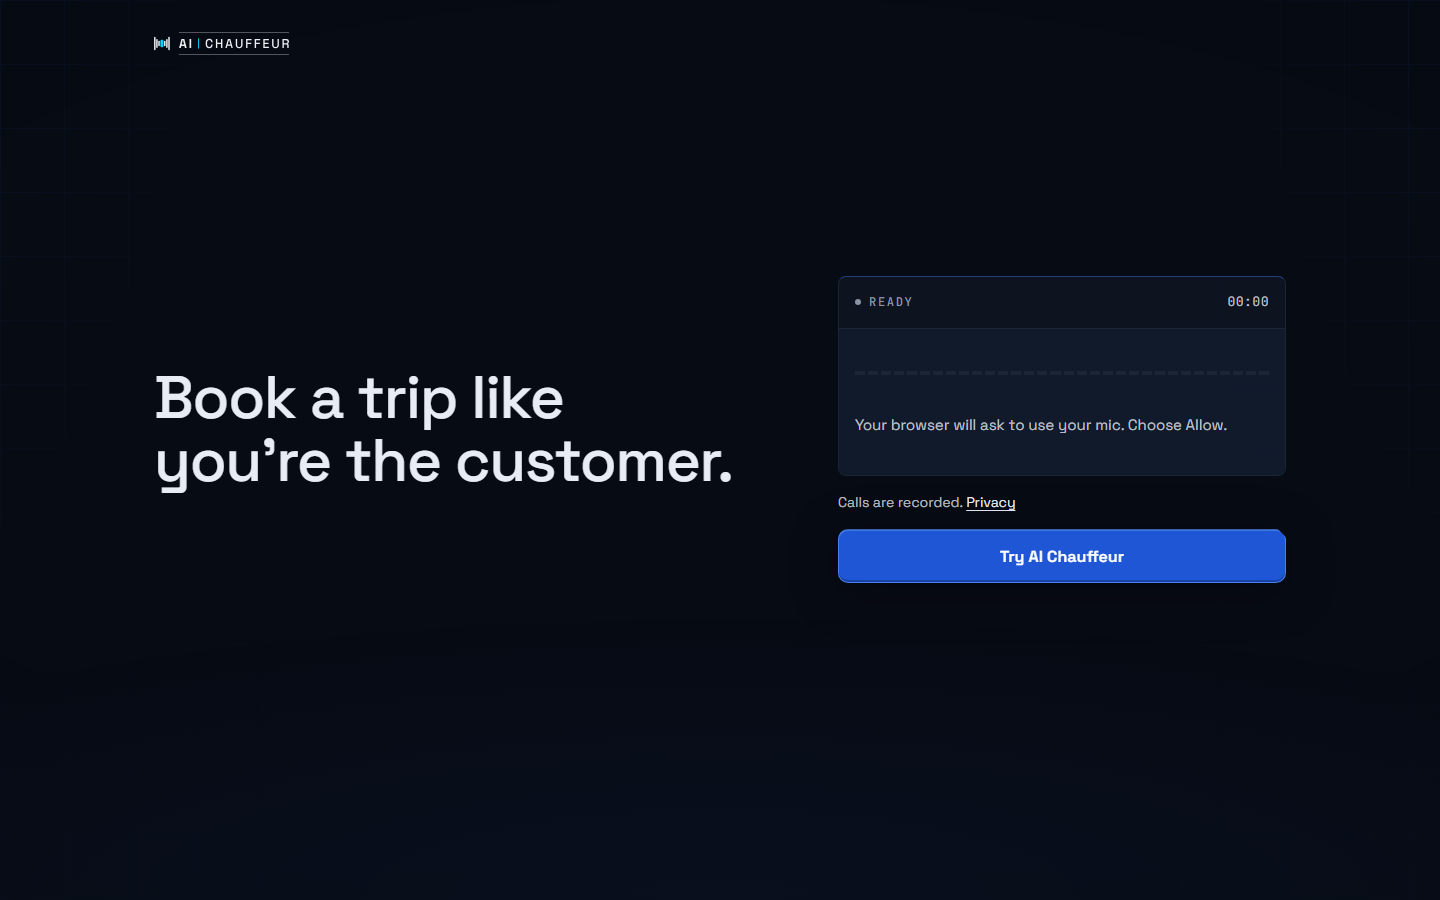
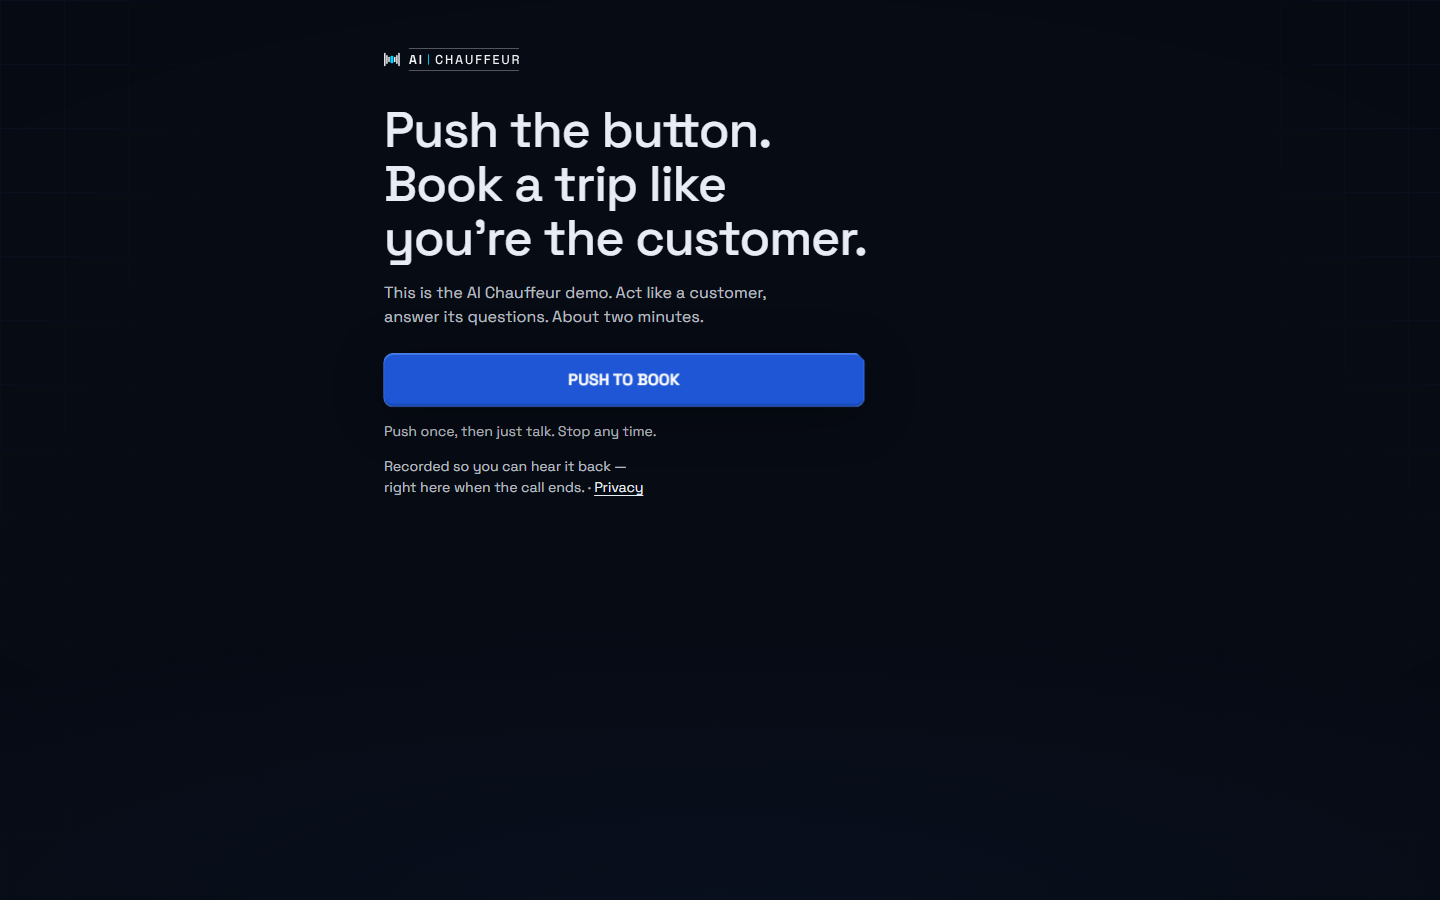
AIC /try v4.1 ledger: the board, the run report, the production screenshots
board.json: aic-try label flips to v4.1 with deploy + rollback ids, the L5 lane
carries the canon note (probe contrast IN the dimmed state, not the opacity
number), and the run log gains the v4.1 entry.
reports/2026-09-12-aic-try-v41.md is the readback mirror.
audits/aic-try/prod-*.png are the production render-gate captures of 22095dc,
including the stubbed push in CONNECTING.

Claude-Session: https://claude.ai/code/session_01FEvxgYifxen7huBtXb4fSK

diff --git a/reports/2026-09-12-aic-try-v41.md b/reports/2026-09-12-aic-try-v41.md
@@ -1,0 +1,47 @@
+# AIC /try v4.1 — SIMPLIFY
+
+2026-09-12 · commit `22095dc` · deploy `dpl_DGqfrPtdvFqkbsZ9EpHs9e1uHfLt` · https://aichauffeur.ai/try/
+
+```
+===== SHANE READBACK — COPY ALL =====
+LIVE — aichauffeur.ai/try now shows five things and a button line before you push, and the panel shows up only after you push.
+
+WHAT CHANGED
+- Deleted the three chips, "Read one of these." and the limo-owner line, from the code as well as the screen. New sub-line is live.
+- The status panel is hidden until you push. Then it opens under the button in 240 ms, and the mic hint shows only while connecting.
+- Desktop is one centered 720px column. One fix: the call-time dim went 62% → 63%, because 62% measured under the readable floor.
+
+DONE
+| What | Live | Proof |
+|---|---|---|
+| Five things + small line at rest | yes | gate at 320/390/430/1440 on prod: exact visible set, zero strays |
+| Chips, chip label, role line deleted | yes | absent from the served page source, class names and event too |
+| Panel hidden at rest, unfolds under button ≤300 ms | yes | stubbed push on prod: panel after 17 ms, animation 240 ms, below the button |
+| Mic hint only in CONNECTING | yes | stubbed push: note = "Your browser will ask to use your mic. Choose Allow." |
+| Button top above 560px at 390×844 | yes | 262px (live v4 measured 568px) |
+| Desktop single centered column ≤720px | yes | 1440: column 360–1080, every block on one left edge |
+| Contrast ≥4.5:1 everywhere | yes | rest min 6.25:1; connecting with dim min 4.57:1 |
+| Zero overflow, zero console errors | yes | all four widths |
+| Breathing, reduced motion | yes | 4 s loop on the wrapper; off under reduced motion, unfold off too |
+| After-call surface, second push | unchanged from v4 | no code touched in the receipt or reset path |
+| Gate can fail | yes | same gate on live v4 failed rest set, panel, button top and desktop column |
+| Board + log | yes | hq/board.json aic-try label, L5 note, log entry |
+
+IDS + ROLLBACK
+- Commit 22095dc · rollback: git revert 22095dc && git push
+- Deploy dpl_DGqfrPtdvFqkbsZ9EpHs9e1uHfLt · instant rollback: promote dpl_394Nc6YStDYkaGV99tLLd4CVrhoi (v4, f0429f0) in Vercel
+- n8n WF-TRY-WEBCALL 9nKn8i2dRuALikuv: untouched, still published 89829d66-d05c-4e54-96de-2647f627db69
+- No call placed this run; hourly call budget untouched
+
+NEXT — only Shane
+- One look on the iPhone at aichauffeur.ai/try: rest screen, push, end.
+
+GOTCHAS
+- The focus dim is 63%, not 62%. At 62% the sub-line, hint and recording line measured 4.46:1 during a call, under the 4.5 floor, on every v4 call. 63% is the smallest step that passes (4.57:1).
+- The breathing "ring 40%→100%" was never in v4. The shipped breathing is scale only. It was not added, because this run only removes.
+- "Connecting you." is gone. The mic hint took that slot, since both can't show in CONNECTING.
+- Desktop centers the column, and text stays left-aligned inside it, the same as on the phone.
+- The after-call order is v4's: the panel with "Call ended" and the transcript sits above the recording line, then the trip card, Hear it back and Send this page. The brief's order put the transcript after Hear it back, but v4 never had that order, so it stayed as v4.
+- tools/aic-try/call.mjs pointed at the deleted .try-prompts and would have crashed the next live call run. It now points at .try-tell and has not been re-run on a live call.
+- Carried from v4, not touched: PUSH TO BOOK is all caps and the panel/button have 8px corners, and both conflict with the brand doc.
+```
